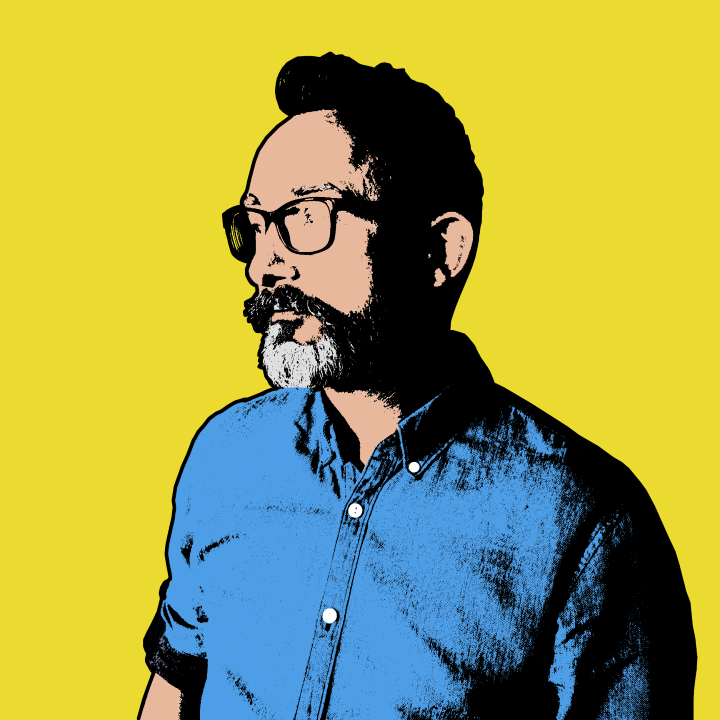
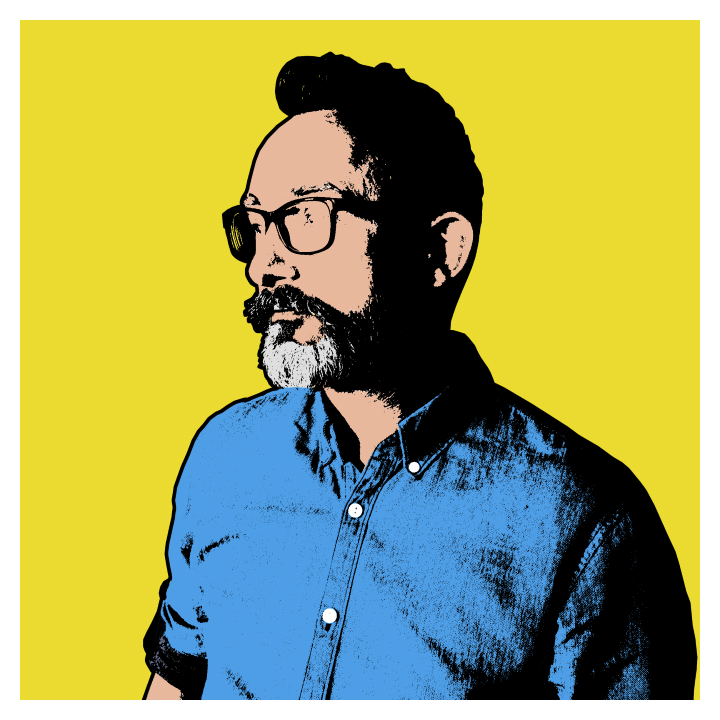
Revert "Updated hero images."
This reverts commit e5a0522f9943b92e0f3673c3883c7c8f35a19395.

Changed region(s): [[0.0, 0.0, 1.0, 1.0]]

diff --git a/index.html b/index.html
@@ -47,8 +47,8 @@
                 <a class="nav-link" href="work.html">Work.</a>
               </li>
             </ul>
-            <div class="col-sm-6 col-md-6 col-lg-4 padding-bottom">
-              <img src="img/hero/hero-img-1.jpg" alt="Illustration of Steven Dow" class="img-fluid hero-image">
+            <div class="col-sm-6 col-md-6 col-lg-4 hero-image">
+              <img src="img/hero/hero-img-1.jpg" alt="Illustration of Steven Dow" class="img-fluid">
             </div>
           </div>
         </div>
@@ -85,23 +85,12 @@
               <img src="img/hero/hero-img-1.jpg" alt="portrait 3" class="img-fluid ">
             </div>
           </div>
-<<<<<<< Updated upstream
-=======
-<<<<<<< HEAD
-          <div class="card">
-            <img src="img/hero/hero-img-3.jpg" alt="portrait 3" class="img-fluid ">
-=======
->>>>>>> Stashed changes
           <div class="row justify-content-end">
             <div class="col col-sm-9 col-md-8 col-lg-6">
               <p>
                 I make sure my concepts and design solutions are well thought through, and based on thorough research. I'm a good listener, and I'm strong at aligning with stakeholders.
               </p>
             </div>
-<<<<<<< Updated upstream
-=======
->>>>>>> 6542ae0a9f723cb4078d75b2d4030f03edc8b2c3
->>>>>>> Stashed changes
           </div>
         </div>
       </section>
@@ -203,12 +192,6 @@
             </div>
             <div class="col-6 col-md-4 col-lg-3">
               <img src="img/featured-awards/featured-awards-4.jpg" alt="featured logo 2" class="img-fluid py-3" >
-<<<<<<< Updated upstream
-=======
-            </div>
-            <div class="col-6 col-md-4 col-lg-3">
-              <img src="img/featured-awards/featured-awards-5.jpg" alt="featured logo 3" class="img-fluid py-3">
->>>>>>> Stashed changes
             </div>
             <div class="col-6 col-md-4 col-lg-3">
               <img src="img/featured-awards/featured-awards-5.jpg" alt="featured logo 3" class="img-fluid py-3">
@@ -268,62 +251,6 @@
             </ul>
           </div>
         </div>
-<<<<<<< Updated upstream
-=======
-      </section>  
-      
-      <!-- Footer -->
-      <footer class="py-5">
-        <div class="container">
-          <div class=" row">
-            <h2 class="pb-3 display-4 font-weight-bold col-md-4">
-              Say<br>hello
-              <span class="text-red">.</span>
-            </h2>  
-            <ul class="col-md-4">
-              <li>
-                <a href="mailto: thefamousunknown@gmail.com?subject=Nice website&body=Hi Steven, Let's grab a coffee.">info@stevendow.nl</a>
-                <span class="sr-only">Opens mail application</span>
-              </li>
-              <li>
-                <a href="#">+31 (0)6 462 405 20</a>
-              </li>
-              <li>
-                <p>
-                  Waldenlaan 98<br>1093NH Amsterdam
-                </p>
-              </li>
-            </ul>
-            <ul class="col-md-4">
-              <li>
-                <a href="https://www.linkedin.com/in/stevendow/" target="_blank">LinkedIn</a>
-                <span class="sr-only">Opens in new window</span>
-              </li>
-              <li>
-                <a href="https://github.com/wodnevets/" target="_blank">Github</a>
-                <span class="sr-only">Opens in new window</span>
-              </li>
-              <li>
-                <a href="https://codepen.io/wodnevets" target="_blank">Codepen</a>
-                <span class="sr-only">Opens in new window</span>
-              </li>
-              <li>
-                <a href="https://dribbble.com/WodNevets" target="_blank">Dribbble</a>
-                <span class="sr-only">Opens in new window</span>
-              </li>
-              <li>
-                <div class="font-weight-light">
-                  <p class="footer-text">
-                    &copy;2020 Steven A. R. Dow <br>Made with love and coffee. View
-                    <a href="https://github.com/stevandow/stevendow-new-portfolio" target="_blank" class="footer-text">source.</a>
-                    <span class="sr-only"></span>Opens in new window</span>
-                  </p>
-                </div> 
-              </li>
-            </ul>
-          </div>
-        </div>
->>>>>>> Stashed changes
       </footer>
     </main>
     

diff --git a/work.html b/work.html
@@ -28,6 +28,11 @@
     <header class="background-blue">
       <nav class="navbar">
         <a class="navbar-brand mx-auto" href="index.html"><img src="img/logo.svg" alt="Logo of Steven Dow"></a>
+        <!-- <a onclick="myFunction()" href="#"> -->
+          <!-- <svg width="2rem" height="2em" viewBox="0 0 16 16" class="bi bi-moon" fill="currentColor" xmlns="http://www.w3.org/2000/svg">
+            <path fill-rule="evenodd" d="M14.53 10.53a7 7 0 0 1-9.058-9.058A7.003 7.003 0 0 0 8 15a7.002 7.002 0 0 0 6.53-4.47z"/>
+          </svg> -->
+        <!-- </a> -->
       </nav>
       <!-- hero section -->
       <section class="work py-5">
@@ -44,8 +49,8 @@
               <a class="nav-link active" href="#">Work<span class="text-blue">.</span></a>
             </li>
           </ul>
-          <div class="col-sm-6 col-md-6 col-lg-4 padding-bottom">
-            <img src="img/hero/hero-img-3.jpg" alt="Illustration of Steven Dow" class="img-fluid hero-image">
+          <div class="col-sm-6 col-md-6 col-lg-4 hero-image">
+            <img src="img/hero/hero-img-1.jpg" alt="Illustration of Steven Dow" class="img-fluid">
           </div>
         </div>
         </div>

diff --git a/styles.css b/styles.css
@@ -198,12 +198,8 @@ svg:hover {
 	background-color: #499CE9;
 }
 
-.padding-bottom {
-	padding-bottom: 2.5rem;
-}
-
 .hero-image {
-	border: 10px solid #ffffff;
+	padding-bottom: 2.5rem;
 }
 
 .margin-0 {
@@ -310,7 +306,7 @@ footer ul {
 
 /* // Small devices (landscape phones, 576px and up) */
 @media (min-width: 375px) {
-	.padding-bottom {
+	.hero-image {
 		padding-bottom: 3.5rem;
 	}
 	.hero, .what, .work {
@@ -319,7 +315,7 @@ footer ul {
 }
 
 @media (min-width: 414px) {
-	.padding-bottom {
+	.hero-image {
 		padding-bottom: 4rem;
 	}
 	.hero, .what, .work {
@@ -329,7 +325,7 @@ footer ul {
 
 /* // Medium devices (tablets, 768px and up) */
 @media (min-width: 768px) {
-	.padding-bottom {
+	.hero-image {
 		padding-bottom: 9rem;
 	}
 	.hero, .what, .work {

diff --git a/what.html b/what.html
@@ -49,8 +49,8 @@
               <a class="nav-link" href="work.html">Work.</a>
             </li>
           </ul>
-          <div class="col-sm-6 col-md-6 col-lg-4 padding-bottom">
-            <img src="img/hero/hero-img-2.jpg" alt="Illustration of Steven Dow" class="img-fluid hero-image">
+          <div class="col-sm-6 col-md-6 col-lg-4 hero-image">
+            <img src="img/hero/hero-img-2.jpg" alt="Illustration of Steven Dow" class="img-fluid">
           </div>
         </div>
         </div>
